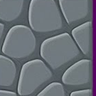
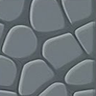
art-audit-b: vm0JynHlzys die recut transparent; stone wall + brick tiles trimmed of magenta crop strips; report what's left; QA 390/360 0 errors

diff --git a/rebuild/app/data/modes/xg_djfCrRes.js b/rebuild/app/data/modes/xg_djfCrRes.js
@@ -21,5 +21,5 @@ CM.mode({
   bot: { engine: 'search', depth: 2, time_ms: 380, min_ms: 260 },
   params: { ffa: true, lives: 8, promoteRank: 1, backDouble: true, names: { r: 'Plankton', u: 'You', y: 'Megan', g: 'JMeister' } },
   hooks: 'g6_4pc',
-  source: { research: 'research/modes/xg_djfCrRes.json', confidence: 'low', notes: 'Walls and armies read square by square from the video frame maxres1 (i.ytimg.com, the opening of game 1; a few pieces may already have moved). 8 checks per king, 2nd-rank promotion (a double step skips it) and promoted pieces worth 1 per transcript.' }
+  source: { research: 'research/modes/xg_djfCrRes.json', confidence: 'low', notes: 'Walls and armies read square by square from the video frame maxres1 (i.ytimg.com, the opening of game 1; a few pieces may already have moved). 8 checks per king, 2nd-rank promotion (a double step skips it) and promoted pieces worth 1 per transcript. art-audit-b: stone wall tile trimmed of a magenta strip left from the crop.' }
 });

diff --git a/rebuild/app/data/modes/vm0JynHlzys.js b/rebuild/app/data/modes/vm0JynHlzys.js
@@ -20,5 +20,5 @@ CM.mode({
   params: { dieImg: 'assets/modes/vm0JynHlzys/die.png', rollImg: 'assets/modes/vm0JynHlzys/roll.png' },   /* _g1art: video sprites (tools/g1_sprites.py) */
   vfx: [{ type: 'overlay', at: 'board', image: 'assets/modes/vm0JynHlzys/die.png', fit: 'contain', duration_ms: 1400, fade_ms: 250 }],   /* the video's own die (research/frames/sprites) */
   hooks: 'g1_dice',
-  source: { research: 'research/modes/vm0JynHlzys.json', confidence: 'high', notes: 'Shared dice rules; per-video differences are only the opponent and side.' }
+  source: { research: 'research/modes/vm0JynHlzys.json', confidence: 'high', notes: 'Shared dice rules; per-video differences are only the opponent and side. art-audit-b: die overlay recut transparent at 256px from research/frames/sprites/vm0JynHlzys_die_thumb.png (old cut kept the purple background).' }
 });

diff --git a/rebuild/app/data/modes/qfHZlae8XVU.js b/rebuild/app/data/modes/qfHZlae8XVU.js
@@ -33,5 +33,5 @@ CM.mode({
     onExit: function () { document.body.classList.remove('m-cloister'); }
   },
   vfx_timeline: [{ trigger: 'game_start', once: true, effect: { type: 'overlay', image: 'assets/modes/qfHZlae8XVU/intro.jpg', fit: 'contain', at: 'board', opacity: 1, duration_ms: 1600, fade_ms: 300 } }],
-  source: { research: 'research/modes/qfHZlae8XVU.json', confidence: 'medium', notes: 'Board size and start squares from the frames (4x4 checkerboard of wazirs).' }
+  source: { research: 'research/modes/qfHZlae8XVU.json', confidence: 'medium', notes: 'Board size and start squares from the frames (4x4 checkerboard of wazirs). art-audit-b: brick tile trimmed of the magenta crop border.' }
 });

diff --git a/rebuild/research/impl_5_report.md b/rebuild/research/impl_5_report.md
@@ -167,3 +167,9 @@ Each was checked in headless Chromium at 390 px by driving the live controller (
   the hawk_thumb sprite with its black outline (old cut: green halo + stray line). hawk_b left as is (no black-hawk frame found).
 - Batch 4: Duck piece (ioUPg_z2KpA) recut transparent at 256 px from the maxres thumbnail (old piece = pink-background square); dice overlays
   dwiAKx06Q9E / eKAOw0yaqyA / haNXJMir3Zk recut transparent from their research sprites (old cuts kept the magenta thumbnail background and the black dice behind).
+- Batch 5: vm0JynHlzys die overlay recut transparent from its die_thumb sprite; xg_djfCrRes stone_wall and qfHZlae8XVU brick tiles trimmed of magenta crop strips.
+- LEFT (art-audit-b, reasons): boaA9_TjXeU green army (general/sergeant/soldier/nightrider _g) has a light outline that the audit flags as a green halo. A colour-key cleanup ate the green piece bodies, so I reverted it; it needs a recut from a frame.
+  Ouroboros black pieces (rf2HSTXTehE, _RFXN1Ye3sY via JAz_qMQpI1o) have a white edge, which is the video's own outline; cm-art-a is recutting the JAz_qMQpI1o set.
+  Stockfish bar avatar (assets/avatars/stockfish.png 64 px, cYVauucyLyQ/bar_stockfish, inm7KvllVu0 52 px): I found no exact higher-res web match (chess.com's stockfish profile picture is different art).
+  95 'upscaled' flags remain. Most are 640x360 intro.jpg (they match maxres 1:1 at half size, so the cards are fine) or Martin crops on the YouTube-card background, which keep the video look.
+  hawk_b has no source frame. Uncut flags on square tiles, wheels and portraits are by design.
